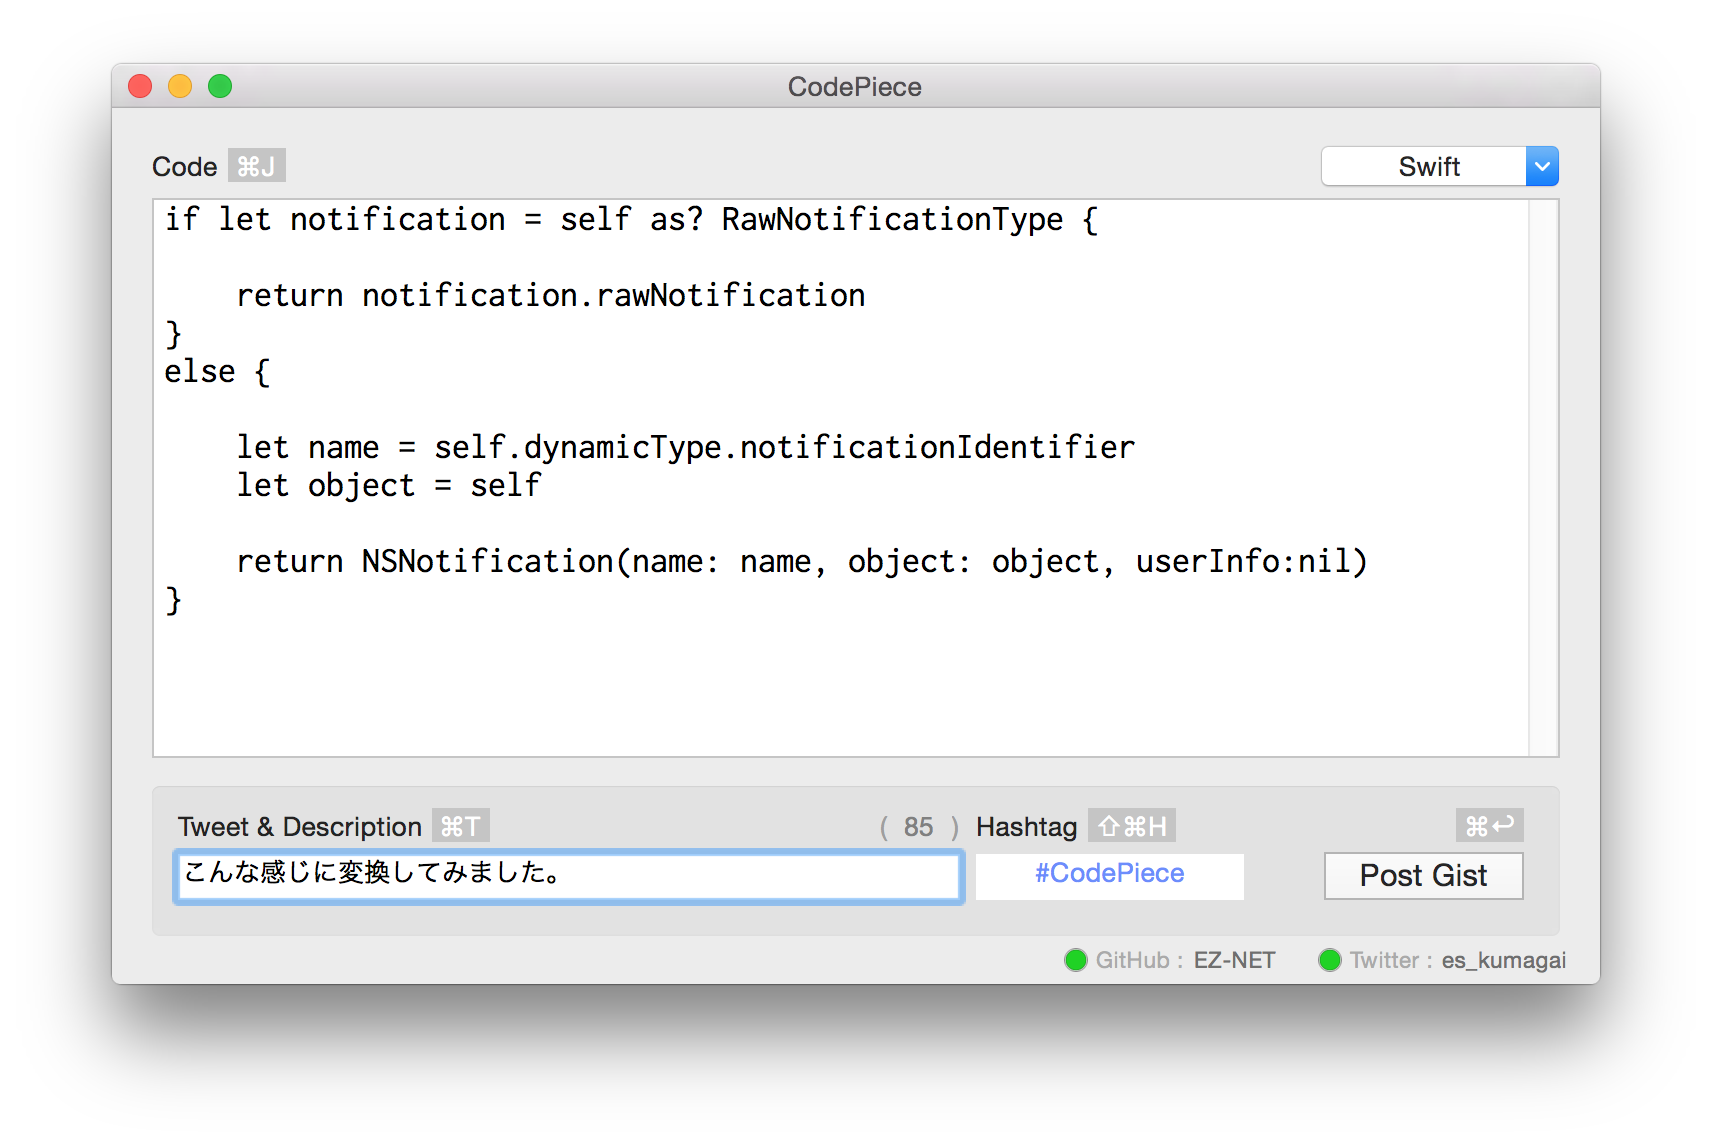
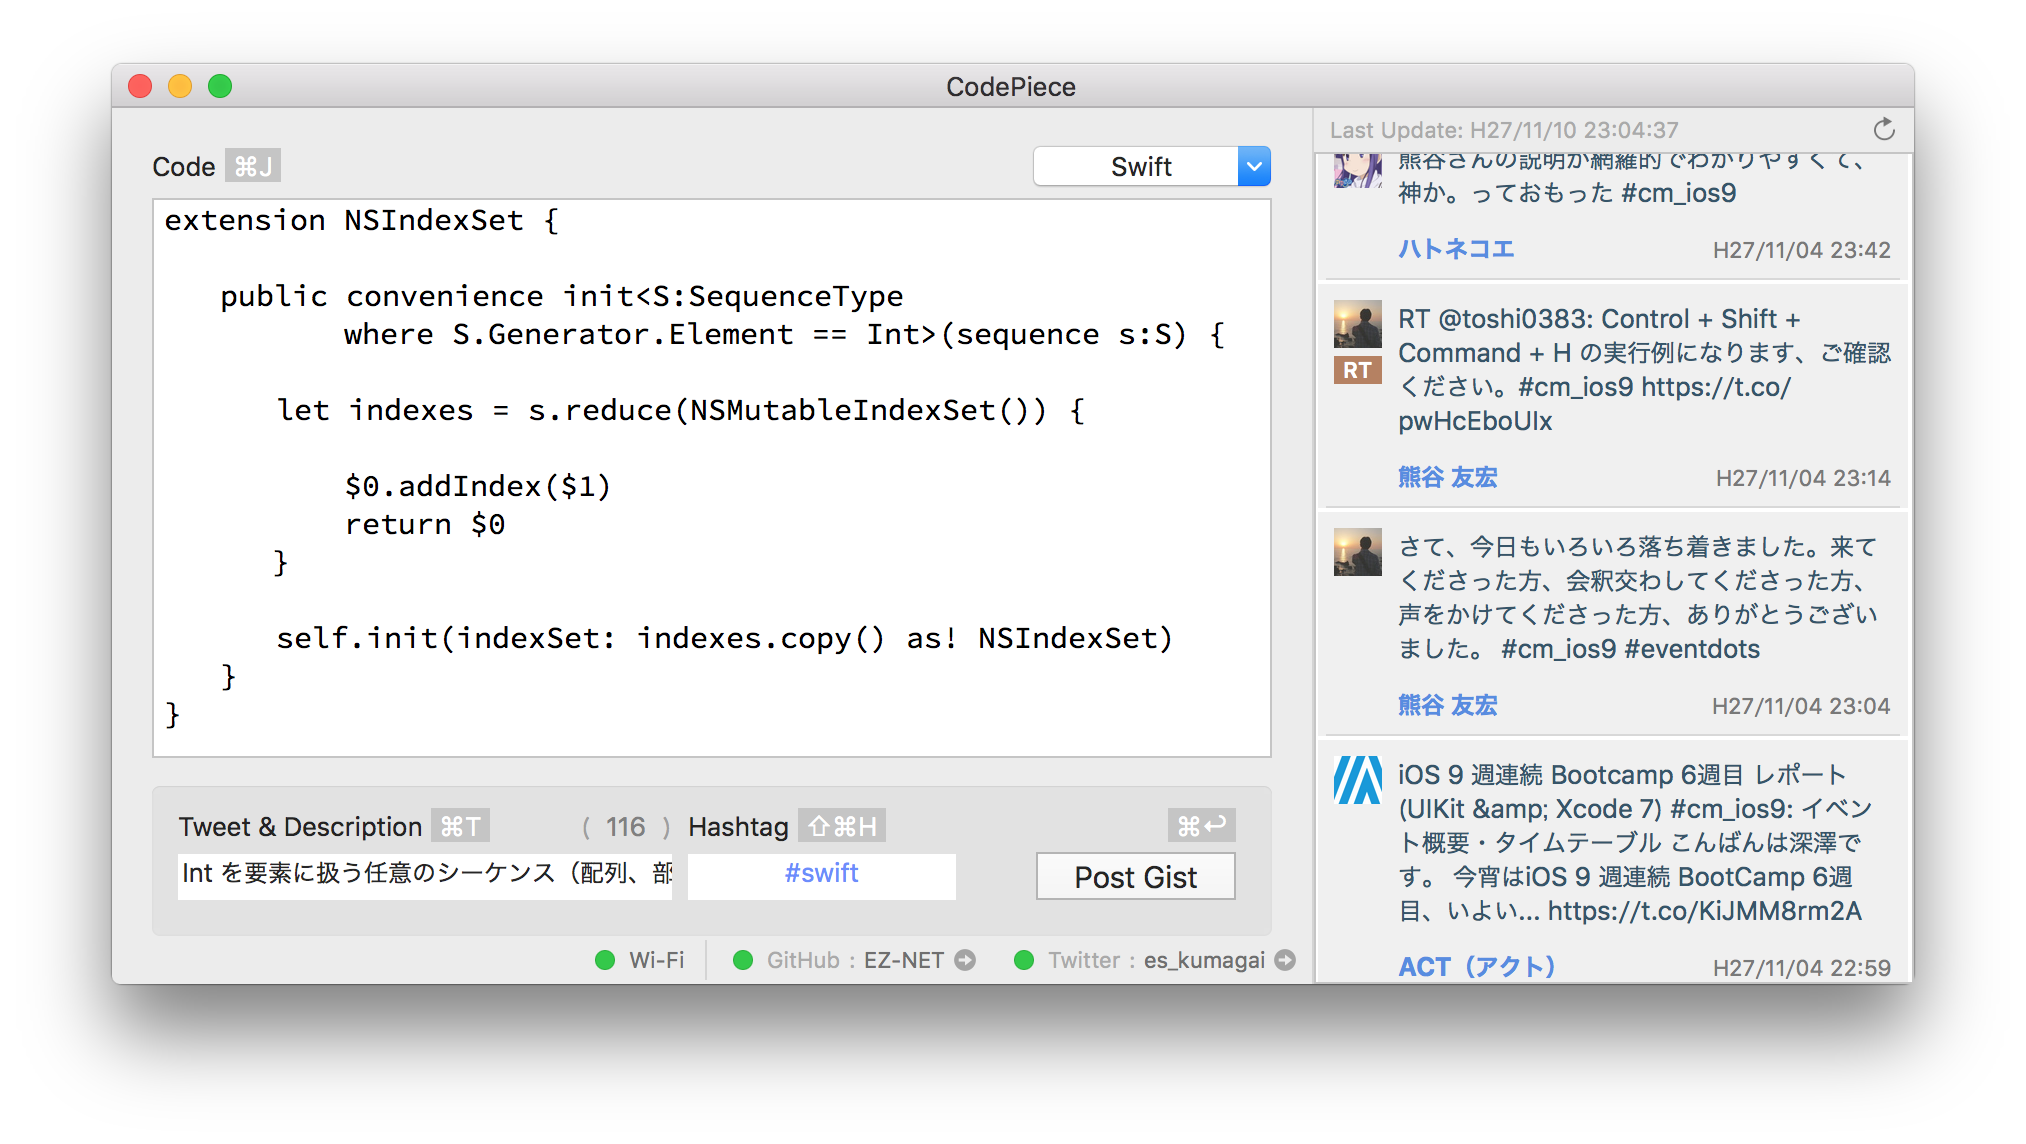
Update Readme

diff --git a/README.md b/README.md
@@ -6,17 +6,24 @@
 
 ## CodePiece で出来ること
 
-### コードを添えてツイートする
+### コードを添えてツイートできる
 
 CodePiece アプリにコードを入力して、コメントを添えて投稿すると、その内容が [Gists](https://gist.github.com/) に投稿されて、そのリンクと画像サムネイルを添えたツイートが [Twitter](https://twitter.com/) に投稿されます。
 
 <img src="ss/tweet-with-code.png" width="100%" style="max-width: 500px; border: 1px solid #AAA">
 
-### コードを添えず、普通にツイートする
+### コードを添えず、普通にツイートできる
 
 コードを入力しなければ、普通にツイートを [Twitter](https://twitter.com/) に投稿できます。
 
 指定してあるハッシュタグも添えられるので、プログラミングの勉強会でコードを添える必要がないときでも CodePiece から普通にツイートできます。
+
+ハッシュタグは投稿した後も入力欄に残されるので、投稿するたびに入力し直す必要がありません。
+あらかじめハッシュタグが設定されている勉強会などで設定しておくと、気軽にツイートできます。
+
+### ハッシュタグのツイートが見られる
+
+ハッシュタグを設定しておくと、右側にそのハッシュタグを持つツイートが表示されます。勉強会など、関連するツイートを追いながら、思い思いにツイートしたい時に便利です。
 
 ## CodePiece を使うために必要なもの
 
